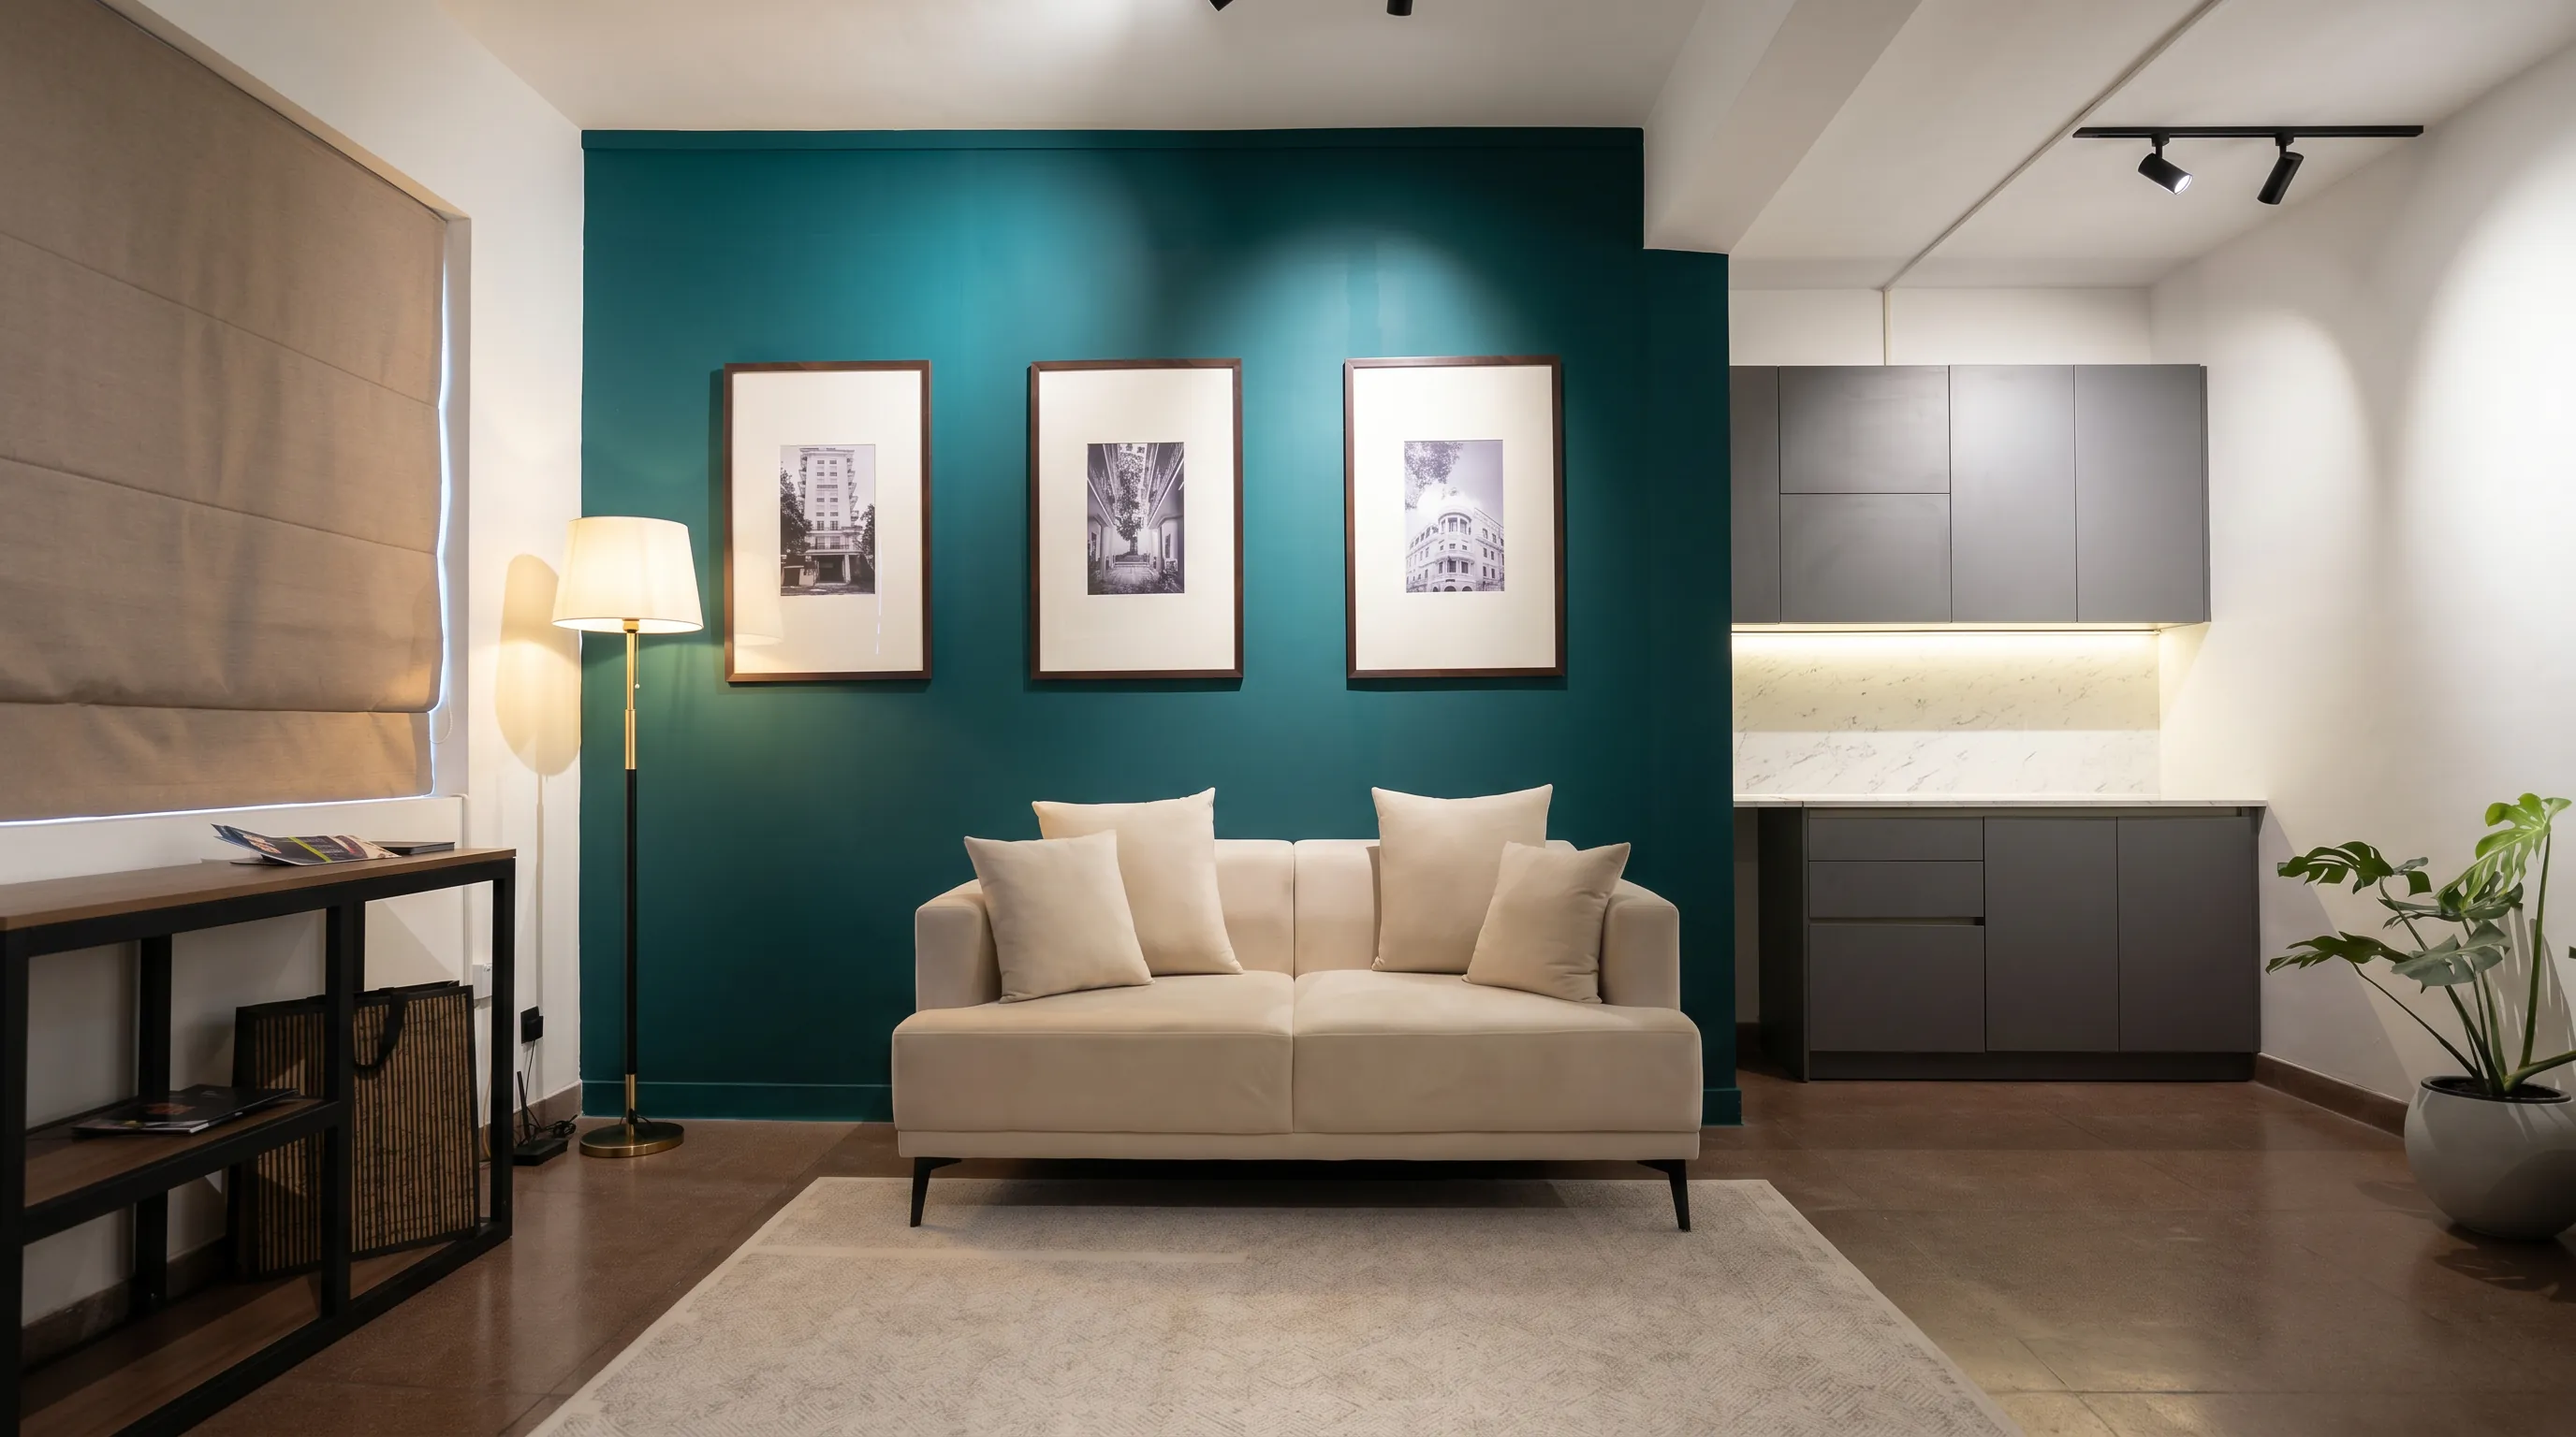
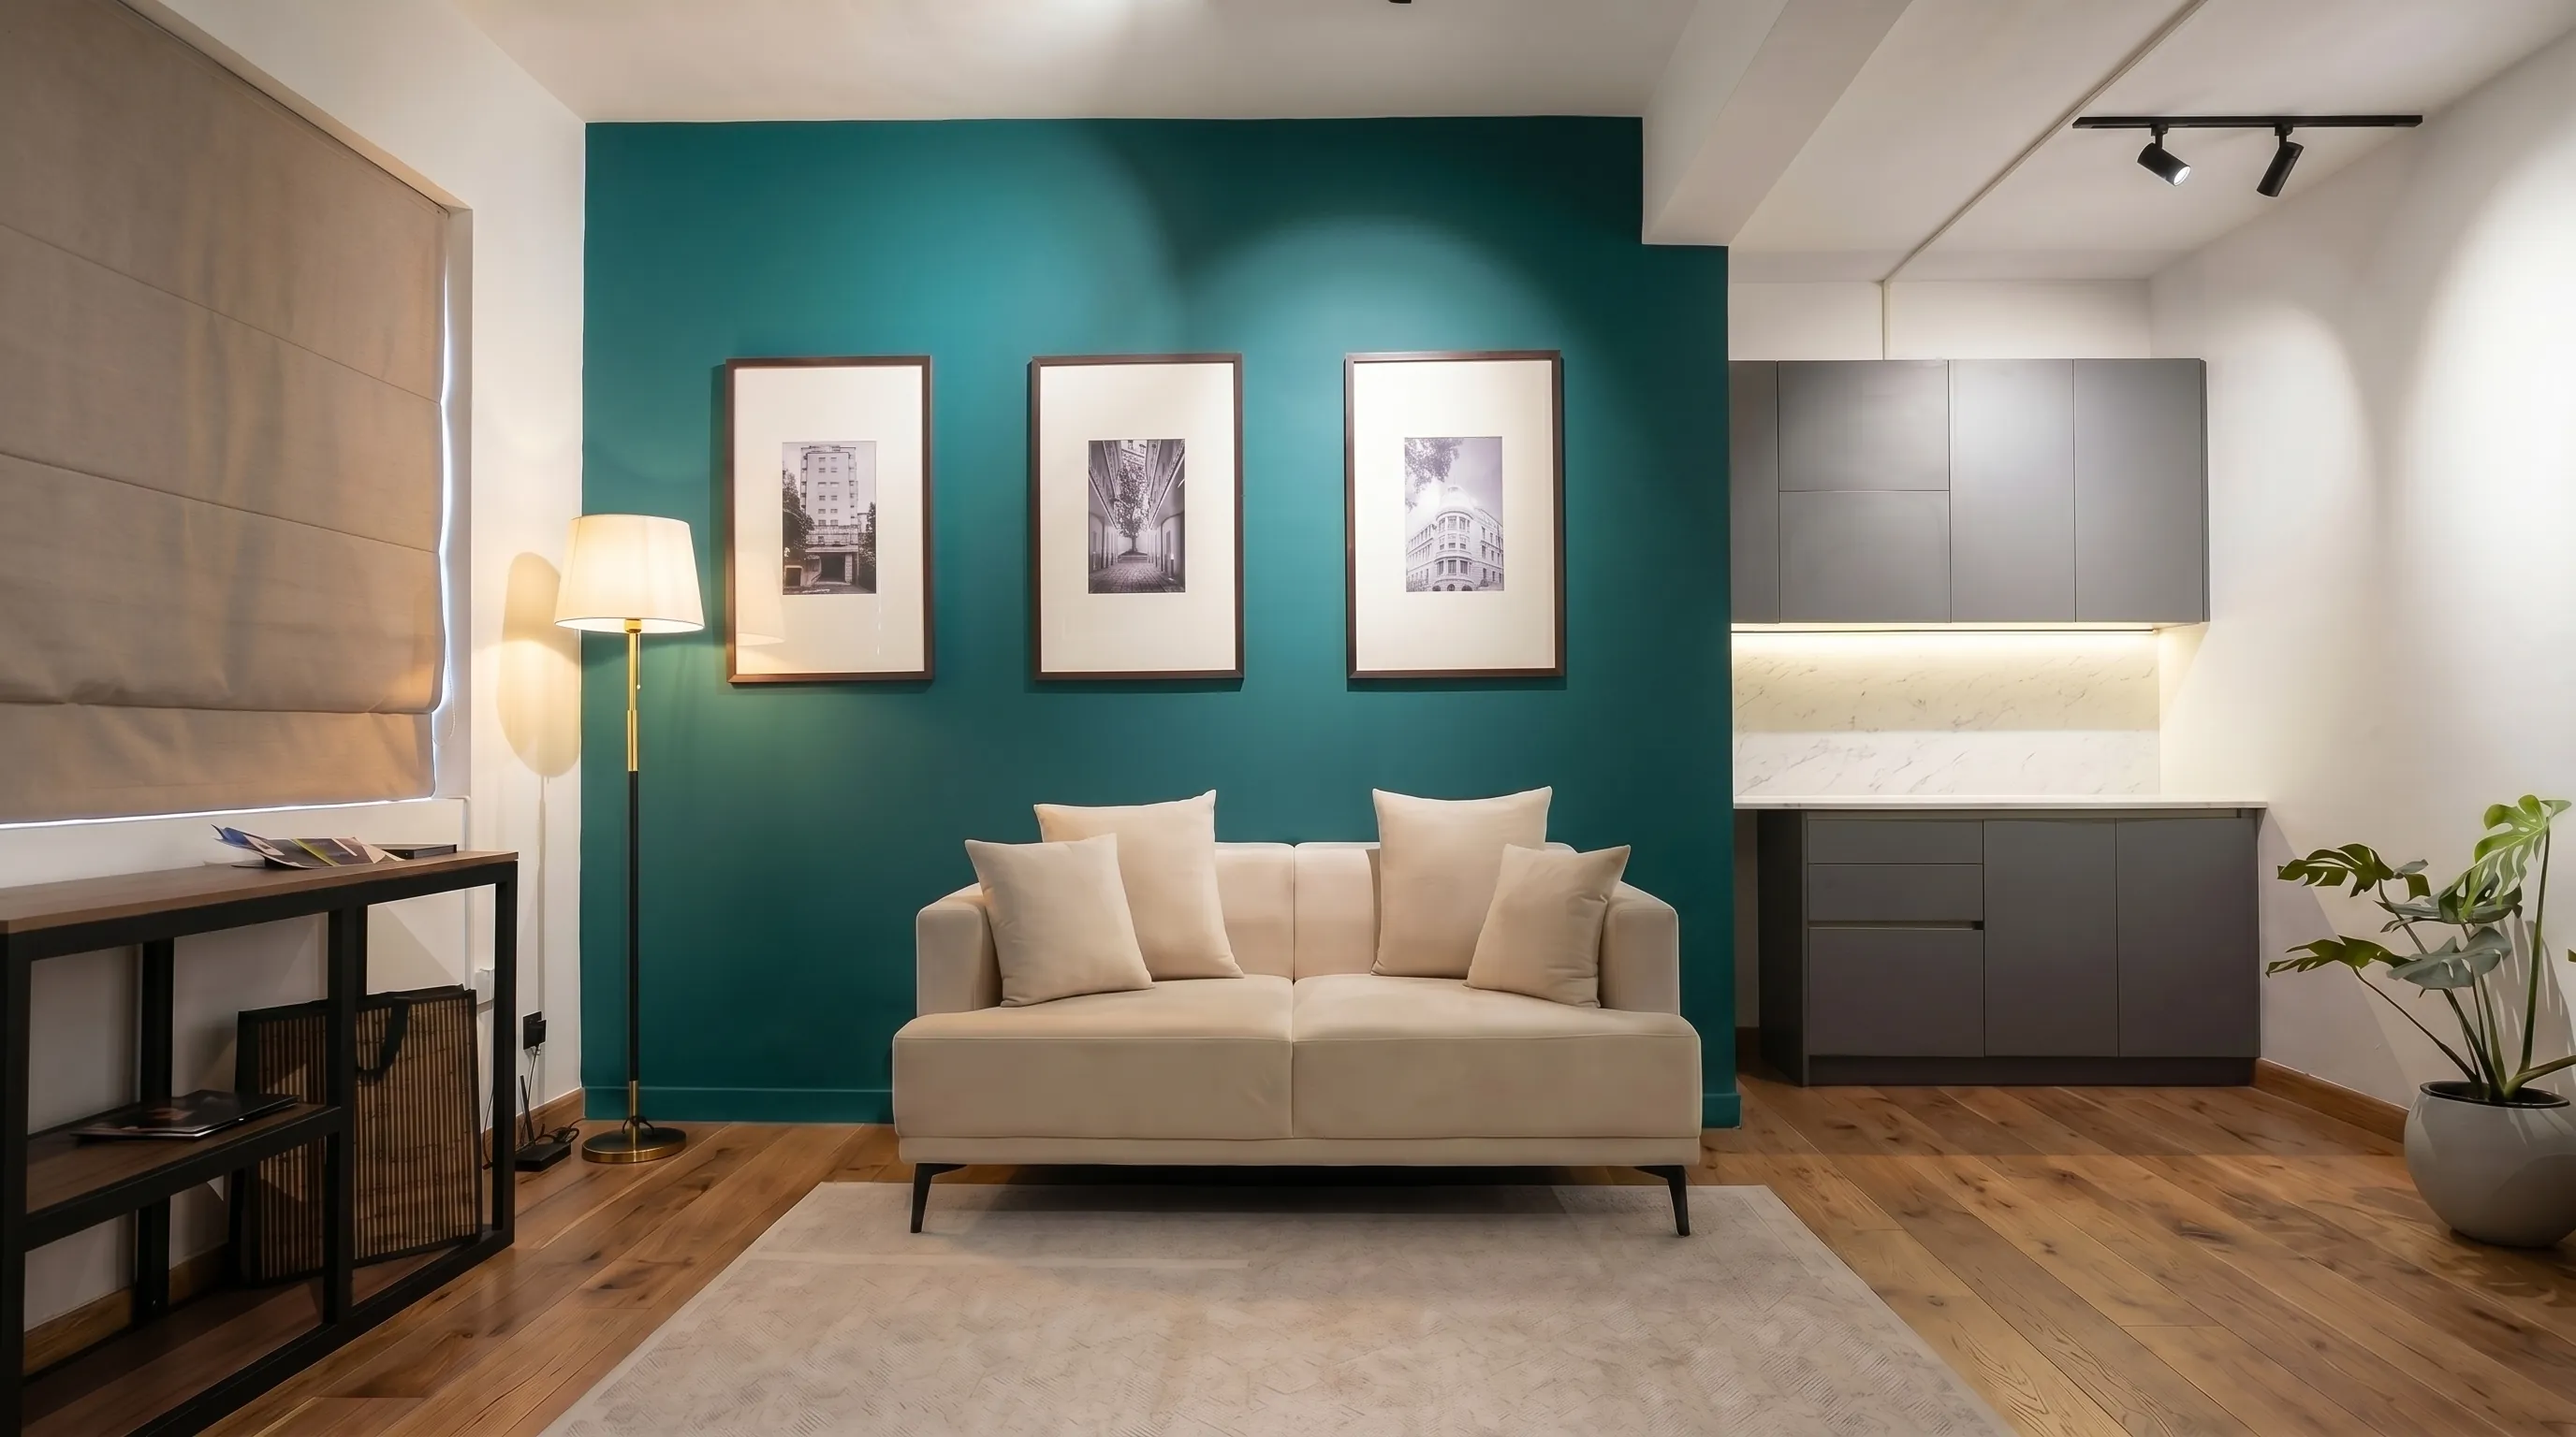
Update The Studio section image to optimized Office 2.5; cache-bust

diff --git a/Vero Design Studio.html b/Vero Design Studio.html
@@ -77,7 +77,7 @@
   </div>
   <div class="philosophy__grid">
     <div class="philosophy__media" data-reveal>
-      <img loading="lazy" decoding="async" src="assets/img/lounge-teal.webp" alt="Teal accent lounge with framed art and bespoke cabinetry" data-parallax="0.12">
+      <img loading="lazy" decoding="async" src="assets/img/lounge-teal.webp?v=2" alt="Teal accent lounge with framed art and bespoke cabinetry" data-parallax="0.12">
     </div>
     <div class="philosophy__text">
       <p class="philosophy__statement" data-reveal style="font-family: &quot;Serenity Serif&quot;; font-weight: 900; text-align: left; letter-spacing: -1.1px; line-height: 1.1; margin: 0 0 0.4rem">

diff --git a/index.html b/index.html
@@ -77,7 +77,7 @@
   </div>
   <div class="philosophy__grid">
     <div class="philosophy__media" data-reveal>
-      <img loading="lazy" decoding="async" src="assets/img/lounge-teal.webp" alt="Teal accent lounge with framed art and bespoke cabinetry" data-parallax="0.12">
+      <img loading="lazy" decoding="async" src="assets/img/lounge-teal.webp?v=2" alt="Teal accent lounge with framed art and bespoke cabinetry" data-parallax="0.12">
     </div>
     <div class="philosophy__text">
       <p class="philosophy__statement" data-reveal style="font-family: &quot;Serenity Serif&quot;; font-weight: 900; text-align: left; letter-spacing: -1.1px; line-height: 1.1; margin: 0 0 0.4rem">
